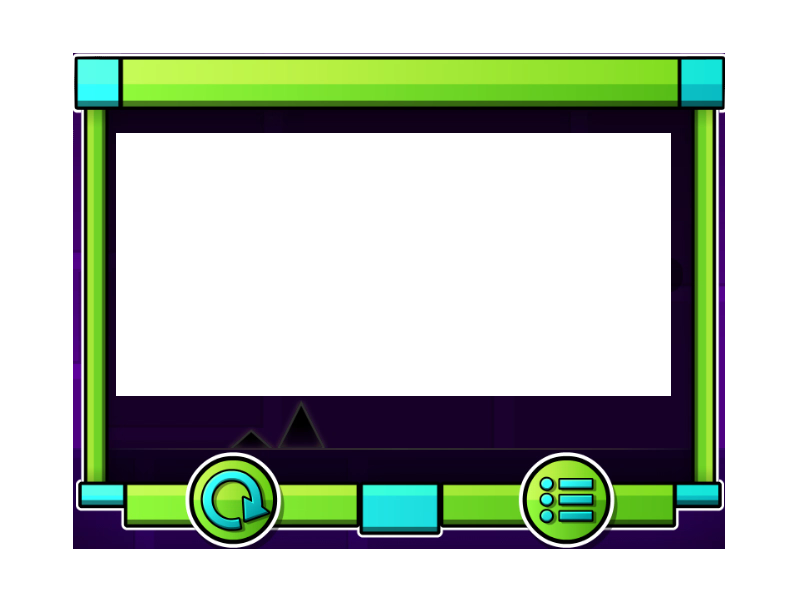
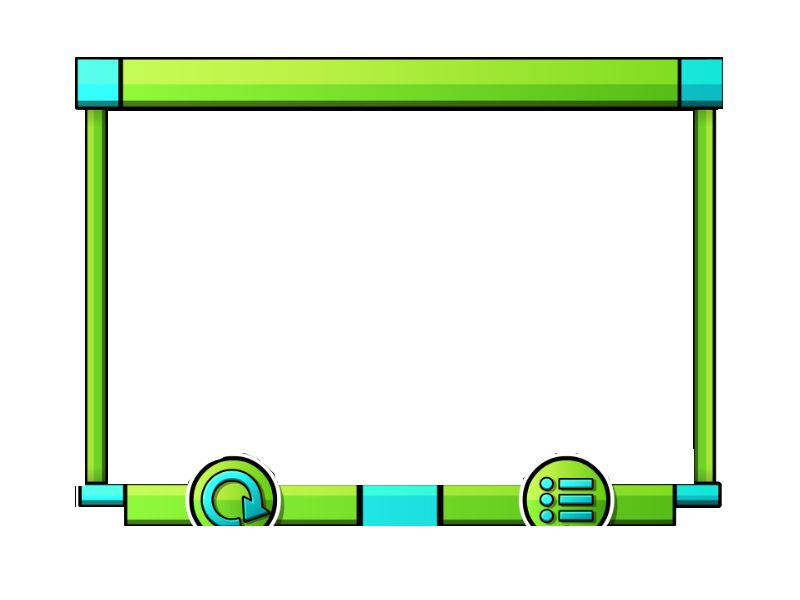
clean up game state detection

Changed region(s): [[0.0938, 0.18, 0.9062, 0.81], [0.0938, 0.84, 0.9062, 0.93], [0.875, 0.09, 0.9062, 0.12]]

diff --git a/src/game.py b/src/game.py
@@ -3,14 +3,15 @@ import os
 import signal
 import subprocess
 import time
+from dataclasses import dataclass
 
 import cv2
 from numpy import random
+import numpy as np
 
 import config
 import harness
-from vision import Vision, VisionState
-from gmdkit import GameSave, LevelSave
+from gmdkit import LevelSave
 
 import logging
 
@@ -21,6 +22,42 @@ class Event:
     def __init__(self, kind, body=None):
         self.kind = kind
         self.body = body
+
+
+@dataclass
+class State:
+    is_dead: bool
+    just_died: bool
+    is_restart: bool
+    is_finish: bool
+
+
+class Filter:
+    def __init__(self, path, threshold):
+        img = cv2.imread(path, cv2.IMREAD_UNCHANGED)
+        if img is None:
+            raise FileNotFoundError(f"could not find filter {path}")
+
+        self.mask: np.ndarray = img[:, :, 3] == 255
+        assert np.any(self.mask)
+
+        img = cv2.cvtColor(img, cv2.COLOR_BGR2RGB)
+        self.img = img.astype(np.float32) / 255.0
+
+        self.templ = self.img[self.mask]
+        mean = self.templ.mean()
+        self.templ -= mean
+        self.tsqr_sum = np.sum(self.templ**2)
+
+        self.threshold = threshold
+
+    def match(self, frame: np.ndarray):
+        f = frame[self.mask].astype(np.float32) / 255.0
+        f = f - f.mean()
+        num = np.sum(f * self.templ)
+        den = np.sqrt(np.sum(f**2) * self.tsqr_sum)
+        score = 0 if den < 1e-9 else float(num / den)
+        return score > self.threshold
 
 
 def _find_free_display(start: int = 99) -> int:
@@ -39,7 +76,6 @@ def _find_free_display(start: int = 99) -> int:
 class LinuxGame:
     def __init__(
         self,
-        vision: Vision | None = None,
         display: str | None = None,
         stream_port: int | None = None,
     ):
@@ -57,9 +93,8 @@ class LinuxGame:
         self.ffmpeg_proc = None
 
         self.events = []
-        self.vision = vision
         self.last_frame = None
-        self.last_state: VisionState | None = None
+        self.last_state: State | None = None
 
         # Watchdog state
         self._last_frame_hash: float | None = None
@@ -211,27 +246,27 @@ class LinuxGame:
                 f"could not find window '{config.WINDOW_TITLE}' on {self.display}"
             )
 
-        if self.vision is None:
-            logger.info("creating default vision module")
-            self.vision = Vision(
-                "filters/death.png", "filters/complete.png", exact_position=True
-            )
+        self.death_filter = Filter(config.DEATH_FILTER, config.VISION_THRESHOLD)
+        self.finish_filter = Filter(config.FINISH_FILTER, config.VISION_THRESHOLD)
 
         self._last_alive_time = time.perf_counter()
         self._death_start_time = None
+        self.prev_died = False
         logger.info("welcome!")
 
-    def update(self) -> VisionState:
+    def update(self) -> State:
         self.last_frame = self.harness.capture(self.window)
-        self.last_state = self.vision.update(self.last_frame)
+        dead = self.death_filter.match(self.last_frame)
+        self.last_state = State(
+            is_dead=dead,
+            # is_finish=self.finish_filter.match(self.last_frame),
+            is_finish=False,
+            is_restart=False,
+            just_died=dead and not self.prev_died,
+        )
+        self.prev_died = dead
 
         now = time.perf_counter()
-
-        # Frame-change watchdog
-        frame_hash = float(cv2.mean(self.last_frame)[0])
-        if self._last_frame_hash != frame_hash:
-            self._last_frame_hash = frame_hash
-            self._last_frame_change_time = now
 
         # Alive/death watchdog
         if self.last_state.is_dead:
@@ -271,6 +306,7 @@ class LinuxGame:
                 time.sleep(delay)
                 sleep_amt -= delay
             elif evt.kind == "restart":
+                self.events = []
                 self.harness.press_key(self.window, "Alt_L")
                 self.harness.press_key(self.window, "F4")
                 self.harness.release_key(self.window, "F4")
@@ -314,17 +350,6 @@ class LinuxGame:
 
     def is_alive(self) -> bool:
         return self.game_proc is not None and self.game_proc.poll() is None
-
-    def is_stuck(self, frame_timeout: float = 5.0, death_timeout: float = 30.0) -> bool:
-        now = time.perf_counter()
-        if now - self._last_frame_change_time > frame_timeout:
-            return True
-        if (
-            self._death_start_time is not None
-            and now - self._death_start_time > death_timeout
-        ):
-            return True
-        return False
 
     def kill_proc(self, proc):
         if proc is None:

diff --git a/src/train.py b/src/train.py
@@ -147,6 +147,10 @@ class VggExtractor(BaseFeaturesExtractor):
                 param.requires_grad = False
             for param in self.avgpool.parameters():
                 param.requires_grad = False
+        elif mode == "finetune":
+            pass
+        else:
+            raise Exception(f"invalid mode: '{mode}'")
 
     def forward(self, x):
         x = self.features(x)
@@ -190,7 +194,7 @@ def main():
                 activation_fn=torch.nn.ReLU,
                 net_arch=dict(pi=classifier, vf=classifier),
                 features_extractor_class=VggExtractor,
-                features_extractor_kwargs=dict(mode="frozen"),
+                features_extractor_kwargs=dict(mode="from_scratch"),
                 share_features_extractor=True,
             ),
         )

diff --git a/src/config.py b/src/config.py
@@ -18,3 +18,7 @@ FFMPEG_PATH = "/usr/bin/ffmpeg"
 JUMP_PENALTY = 0.0
 DEATH_PENALTY = 0.0
 RESOLUTION = (224, 224)
+
+DEATH_FILTER = "filters/death.png"
+FINISH_FILTER = "filters/finish.png"
+VISION_THRESHOLD = 0.7